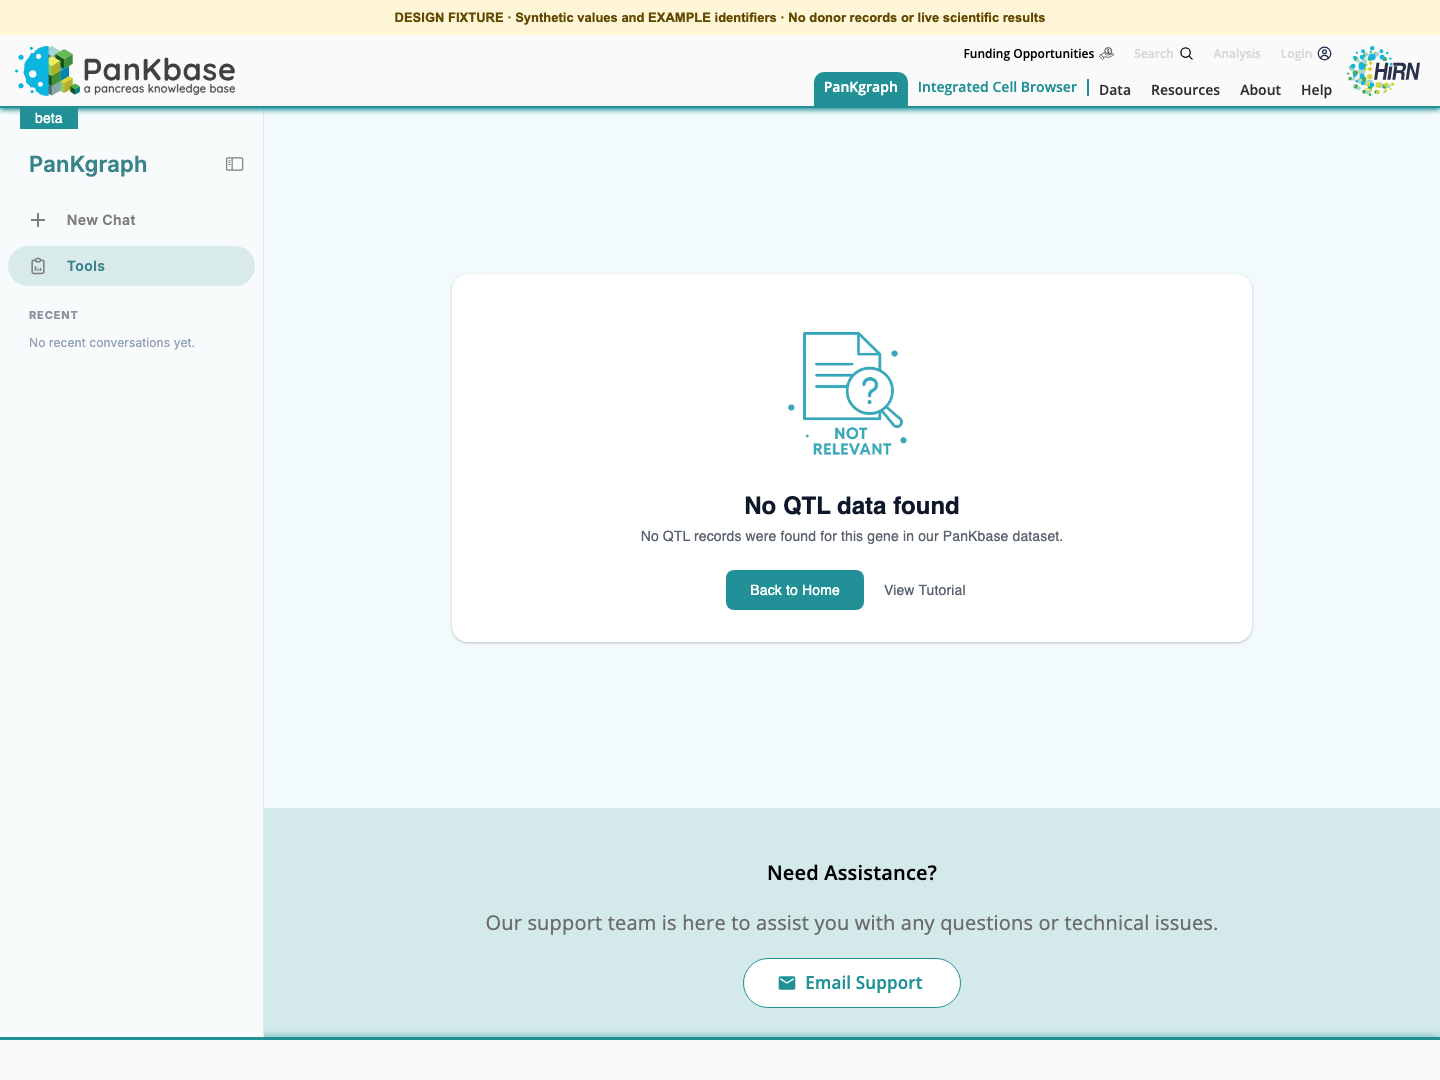
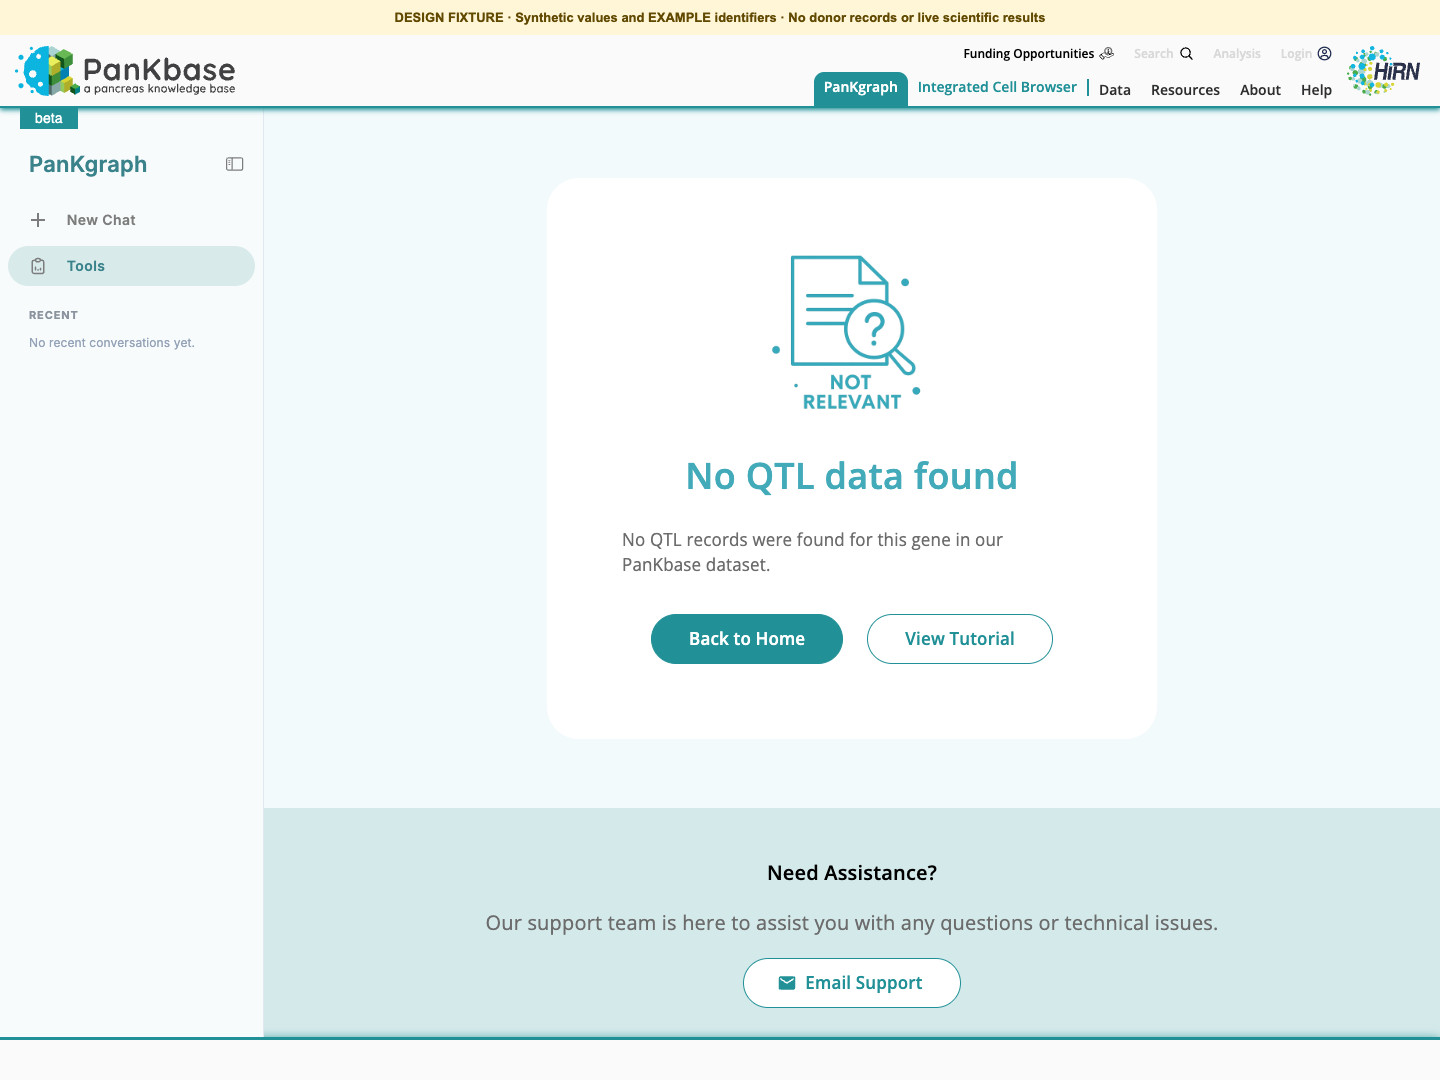
design: revert empty-state pages to their original design
Restore pages/unavailable.html and pages/intermediate-empty.html, and
their preview screenshots, exactly to the upstream capture (287359e) by
request. The .pk-empty-state panel style stays available in
message-states.css but is no longer applied to these two pages; the
design-system note reflects this.

Changed region(s): [[0.4375, 0.2444, 0.7188, 0.6417], [0.625, 0.5806, 0.7188, 0.6111], [0.5625, 0.2139, 0.5938, 0.2444]]

diff --git a/design/pankgraph-atlas/pages/intermediate-empty.html b/design/pankgraph-atlas/pages/intermediate-empty.html
@@ -12,9 +12,7 @@
 <meta name="twitter:title" content="PanKBase – Pan-genome Knowledge Base | pankgraph.org">
 <meta name="twitter:description" content="PanKgraph is a T1D knowledge graph that integrates multi-omic and curated biological data into a unified framework for discovery, visualization, and reproducible diabetes research.">
 <link rel="stylesheet" href="../styles/5d10aa10be3090916c5b.css">
-<link rel="stylesheet" href="../styles/3981213a885f4a4cbe9d.css">
-<link rel="stylesheet" href="../styles/design-tokens.css">
-<link rel="stylesheet" href="../styles/message-states.css"></head>
+<link rel="stylesheet" href="../styles/3981213a885f4a4cbe9d.css"></head>
 <body>
 <div id="designer-fixture" style="position: relative; z-index: 99999; padding: 10px 24px; background: rgb(255, 246, 216); color: rgb(97, 73, 0); font: 600 13px Arial; text-align: center;">DESIGN FIXTURE · Synthetic values and EXAMPLE identifiers · No donor records or live scientific results</div>
 <div id="root">
@@ -76,7 +74,7 @@
 <main class="MuiBox-root css-1pap3d1">
 <div class="MuiContainer-root MuiContainer-disableGutters css-1nycy86">
 <div class="MuiBox-root css-1qwtaqf">
-<div class="MuiBox-root pk-empty-state css-1htjl1f"><img class="MuiBox-root css-1yyt3iq" src="../assets/static/media/not_relevant.bf166cf6f66419d9f88d.png" alt="Error">
+<div class="MuiBox-root css-1htjl1f"><img class="MuiBox-root css-1yyt3iq" src="../assets/static/media/not_relevant.bf166cf6f66419d9f88d.png" alt="Error">
 <p class="MuiTypography-root MuiTypography-body1 css-v513md">No QTL data found</p>
 <p class="MuiTypography-root MuiTypography-body1 css-t3lvr1">No QTL records were found for this gene in our PanKbase dataset.</p>
 <div class="MuiBox-root css-12hxhao"><button class="MuiButtonBase-root MuiButton-root MuiButton-contained MuiButton-containedPrimary MuiButton-sizeMedium MuiButton-containedSizeMedium MuiButton-colorPrimary MuiButton-root MuiButton-contained MuiButton-containedPrimary MuiButton-sizeMedium MuiButton-containedSizeMedium MuiButton-colorPrimary css-mrqyba" tabindex="0" type="button">

diff --git a/design/pankgraph-atlas/pages/unavailable.html b/design/pankgraph-atlas/pages/unavailable.html
@@ -12,9 +12,7 @@
 <meta name="twitter:title" content="PanKBase – Pan-genome Knowledge Base | pankgraph.org">
 <meta name="twitter:description" content="PanKgraph is a T1D knowledge graph that integrates multi-omic and curated biological data into a unified framework for discovery, visualization, and reproducible diabetes research.">
 <link rel="stylesheet" href="../styles/df8d0a5d0a0c475798cb.css">
-<link rel="stylesheet" href="../styles/3981213a885f4a4cbe9d.css">
-<link rel="stylesheet" href="../styles/design-tokens.css">
-<link rel="stylesheet" href="../styles/message-states.css"></head>
+<link rel="stylesheet" href="../styles/3981213a885f4a4cbe9d.css"></head>
 <body>
 <div id="root">
 <div class="MuiContainer-root MuiContainer-disableGutters css-1h4exh5">
@@ -56,7 +54,7 @@
 <div style="flex: 1 1 0%; display: flex; flex-direction: column;">
 <div class="MuiContainer-root MuiContainer-disableGutters css-1nycy86">
 <div class="MuiBox-root css-1qwtaqf">
-<div class="MuiBox-root pk-empty-state css-1htjl1f"><img class="MuiBox-root css-1yyt3iq" src="../assets/static/media/not_relevant.bf166cf6f66419d9f88d.png" alt="Error">
+<div class="MuiBox-root css-1htjl1f"><img class="MuiBox-root css-1yyt3iq" src="../assets/static/media/not_relevant.bf166cf6f66419d9f88d.png" alt="Error">
 <p class="MuiTypography-root MuiTypography-body1 css-v513md">Unavailable in this demo</p>
 <p class="MuiTypography-root MuiTypography-body1 css-t3lvr1">This tool is outside the isolated regular-graph demonstration.</p>
 <div class="MuiBox-root css-12hxhao"><button class="MuiButtonBase-root MuiButton-root MuiButton-contained MuiButton-containedPrimary MuiButton-sizeMedium MuiButton-containedSizeMedium MuiButton-colorPrimary MuiButton-root MuiButton-contained MuiButton-containedPrimary MuiButton-sizeMedium MuiButton-containedSizeMedium MuiButton-colorPrimary css-mrqyba" tabindex="0" type="button">

diff --git a/design/pankgraph-atlas/DESIGN-SYSTEM.md b/design/pankgraph-atlas/DESIGN-SYSTEM.md
@@ -61,7 +61,7 @@ Inline messages share the dialog's tokens so a banner, an empty state and a reco
 | --- | --- | --- |
 | Info alert (MuiAlert standard) | "Reconnecting to the saved result…" banners, plan / streaming notices | `primary-container` fill, corner-medium, 12 × 16 padding, 24px primary icon, body-medium on-surface text, no border |
 | Outlined alert (MuiAlert outlined) | Selection hints on credible-set pages | Same, but `surface` fill with 1px `outline`; action icon button 40px |
-| Empty / error state panel | Feature unavailable, no QTL records | 800px max (same as dialogs), corner-large, elevation-1, 32 × 24 padding, centered; 160px illustration → L1 title → L4 supporting text (4px below title) → actions (filled + text, 40px) |
+| Empty / error state panel | Available for empty / error pages (`.pk-empty-state`); the current "Feature unavailable" and "no QTL records" captures keep their original design by request | 800px max (same as dialogs), corner-large, elevation-1, 32 × 24 padding, centered; 160px illustration → L1 title → L4 supporting text (4px below title) → actions (filled + text, 40px) |
 | Outlined text input | Every MUI outlined field on message pages and in dialogs | 1px `outline` border; `outline-hover` on hover; unchanged on focus/typing; `error` when invalid. Sizes come from the field's own component token |
 | Inline error block | Chart failed to load | `error-container` fill, 1px `error-outline`, corner-medium, 16px padding; title-small in `error`, body-small in `on-error-container` |
 
